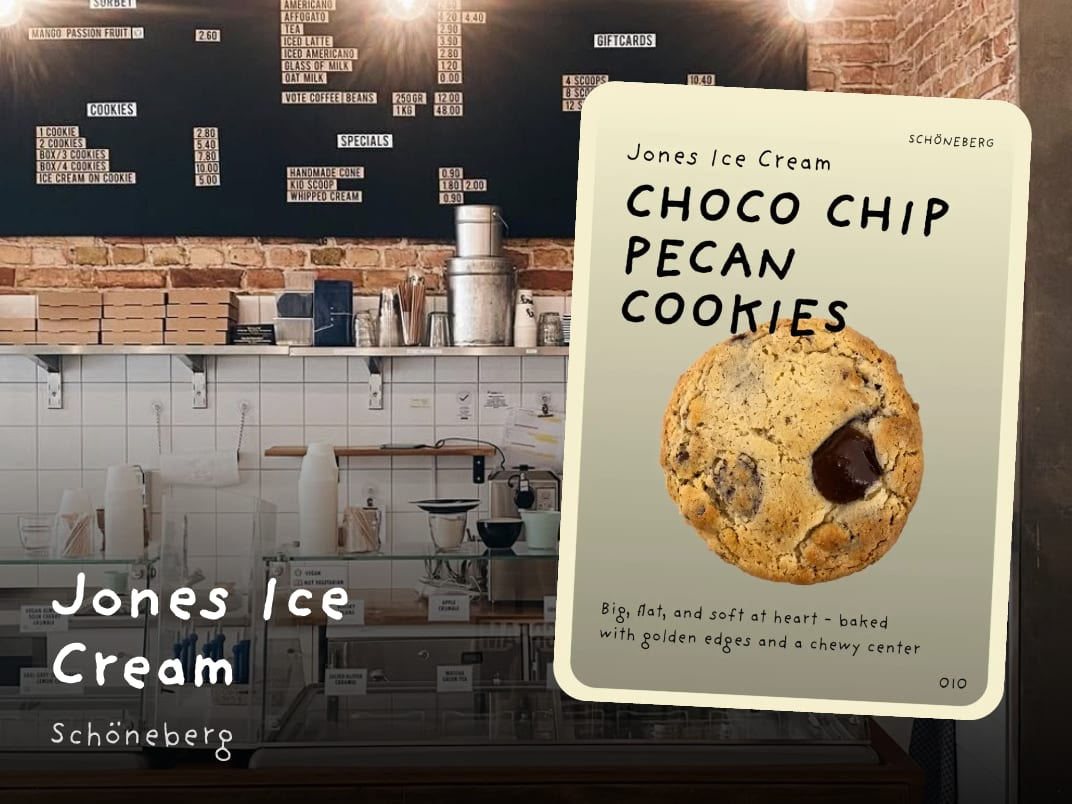
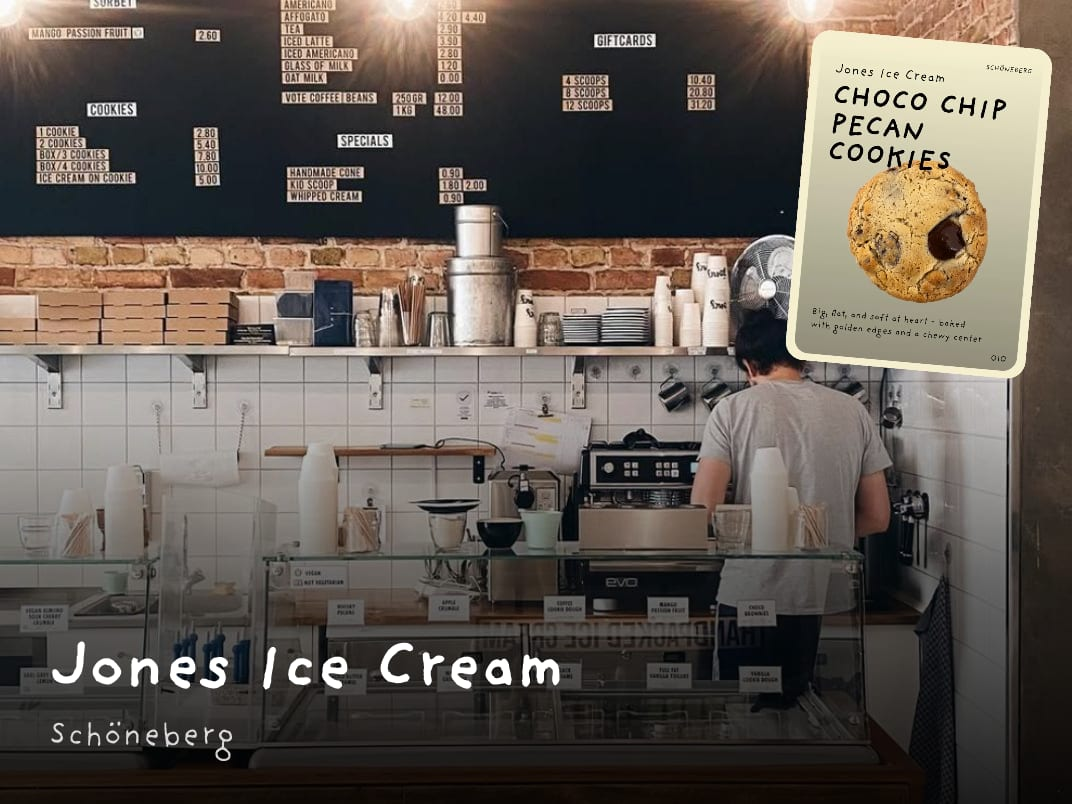
style(mail): Must-Eat-Karte klein oben rechts, Knopf so breit wie sein Wort
Die Karte deckte das Spot-Foto fast zur Haelfte zu. Jetzt sitzt sie wie
`.mustPeek` auf der Restaurantliste oben rechts, 5 Grad gekippt, etwas
groesser als dort (120 px auf 536 px Bildbreite).

Der Anmeldeknopf lief ueber die ganze Spalte. Jetzt ist er so breit wie sein
Wort plus Luft (mindestens 200 px) und steht mittig.

diff --git a/nextjs/lib/email/spotCard.tsx b/nextjs/lib/email/spotCard.tsx
@@ -44,9 +44,13 @@ export interface SpotCardData {
   card: string;
 }
 
-/** Höhe der Must-Eat-Karte im Bild; die Breite folgt ihrem Format (720×989). */
-const CARD_HEIGHT = 620;
-const CARD_WIDTH = Math.round((CARD_HEIGHT * 720) / 989);
+/** Die Must-Eat-Karte oben rechts, wie `.mustPeek` auf der Restaurantliste
+ *  (dort 54–68 px auf rund 360 px Kartenbreite, 5° gekippt) — hier etwas
+ *  grösser, 120 px auf 536 px Anzeigebreite. Grösser deckte sie das Foto zu
+ *  (Betreiber, 22.09.2026). Breite im 2x-Bitmap; die Höhe folgt dem Format
+ *  der Karte (720×989). */
+const CARD_WIDTH = 240;
+const CARD_HEIGHT = Math.round((CARD_WIDTH * 989) / 720);
 
 // Satori subset: flexbox only, every multi-child element needs display:flex.
 export function SpotCardImage({ spot }: { spot: SpotCardData }) {
@@ -89,9 +93,8 @@ export function SpotCardImage({ spot }: { spot: SpotCardData }) {
         }}
       />
 
-      {/* die Must-Eat-Karte — rechts, leicht gekippt, wie sie auf der Map
-          neben dem Spot liegt. Gmail entfernt `transform`, hier ist sie
-          eingebacken. */}
+      {/* die Must-Eat-Karte — oben rechts, gekippt wie auf der Restaurantliste.
+          Gmail entfernt `transform`, hier ist sie eingebacken. */}
       {/* eslint-disable-next-line @next/next/no-img-element */}
       <img
         src={spot.card}
@@ -100,9 +103,9 @@ export function SpotCardImage({ spot }: { spot: SpotCardData }) {
         height={CARD_HEIGHT}
         style={{
           position: 'absolute',
-          right: 56,
-          top: (SPOT_CARD_HEIGHT - CARD_HEIGHT) / 2,
-          transform: 'rotate(3deg)',
+          right: 36,
+          top: 36,
+          transform: 'rotate(5deg)',
         }}
       />
 
@@ -112,7 +115,7 @@ export function SpotCardImage({ spot }: { spot: SpotCardData }) {
           position: 'absolute',
           left: 48,
           bottom: 44,
-          width: SPOT_CARD_WIDTH - 96 - CARD_WIDTH - 40,
+          width: SPOT_CARD_WIDTH - 96,
           display: 'flex',
           flexDirection: 'column',
         }}

diff --git a/nextjs/emails/components/Pieces.tsx b/nextjs/emails/components/Pieces.tsx
@@ -18,7 +18,12 @@ export function CtaButton({ href, label }: { href: string; label: string }) {
       href={href}
       className="et-cta"
       style={{
-        display: 'block',
+        /* So breit wie sein Wort plus Luft, nicht die ganze Spalte — ein
+           Balken über 536 px war zu viel (Betreiber, 22.09.2026). Mittig
+           steht er, weil der Block drumherum mittig gesetzt ist. */
+        display: 'inline-block',
+        minWidth: '200px',
+        boxSizing: 'border-box',
         backgroundColor: COLOR.accent,
         color: COLOR.onAccent,
         borderRadius: `${LAYOUT.radiusControl}px`,
@@ -27,7 +32,7 @@ export function CtaButton({ href, label }: { href: string; label: string }) {
         letterSpacing: '0.01em',
         textAlign: 'center',
         textDecoration: 'none',
-        padding: '17px 24px',
+        padding: '16px 40px',
       }}
     >
       {label}

diff --git a/nextjs/emails/spots.generated.ts b/nextjs/emails/spots.generated.ts
@@ -17,21 +17,21 @@ export const SPOT_DISPLAY_WIDTH = 536;
 
 export const EMAIL_SPOTS: readonly EmailSpot[] = [
   {
-    slug: 'jones-ice-cream',
-    name: 'Jones Ice Cream',
-    meta: 'Schöneberg',
-    version: '35580a33',
+    "slug": "jones-ice-cream",
+    "name": "Jones Ice Cream",
+    "meta": "Schöneberg",
+    "version": "10087d1c"
   },
   {
-    slug: 'hasir',
-    name: 'Hasir',
-    meta: 'Schöneberg',
-    version: '11fa286f',
+    "slug": "hasir",
+    "name": "Hasir",
+    "meta": "Schöneberg",
+    "version": "b150eb6b"
   },
   {
-    slug: 'schuesseldienst',
-    name: 'Schüsseldienst',
-    meta: 'Schöneberg',
-    version: '3b6c5dd4',
-  },
+    "slug": "schuesseldienst",
+    "name": "Schüsseldienst",
+    "meta": "Schöneberg",
+    "version": "0fb4acdc"
+  }
 ];
